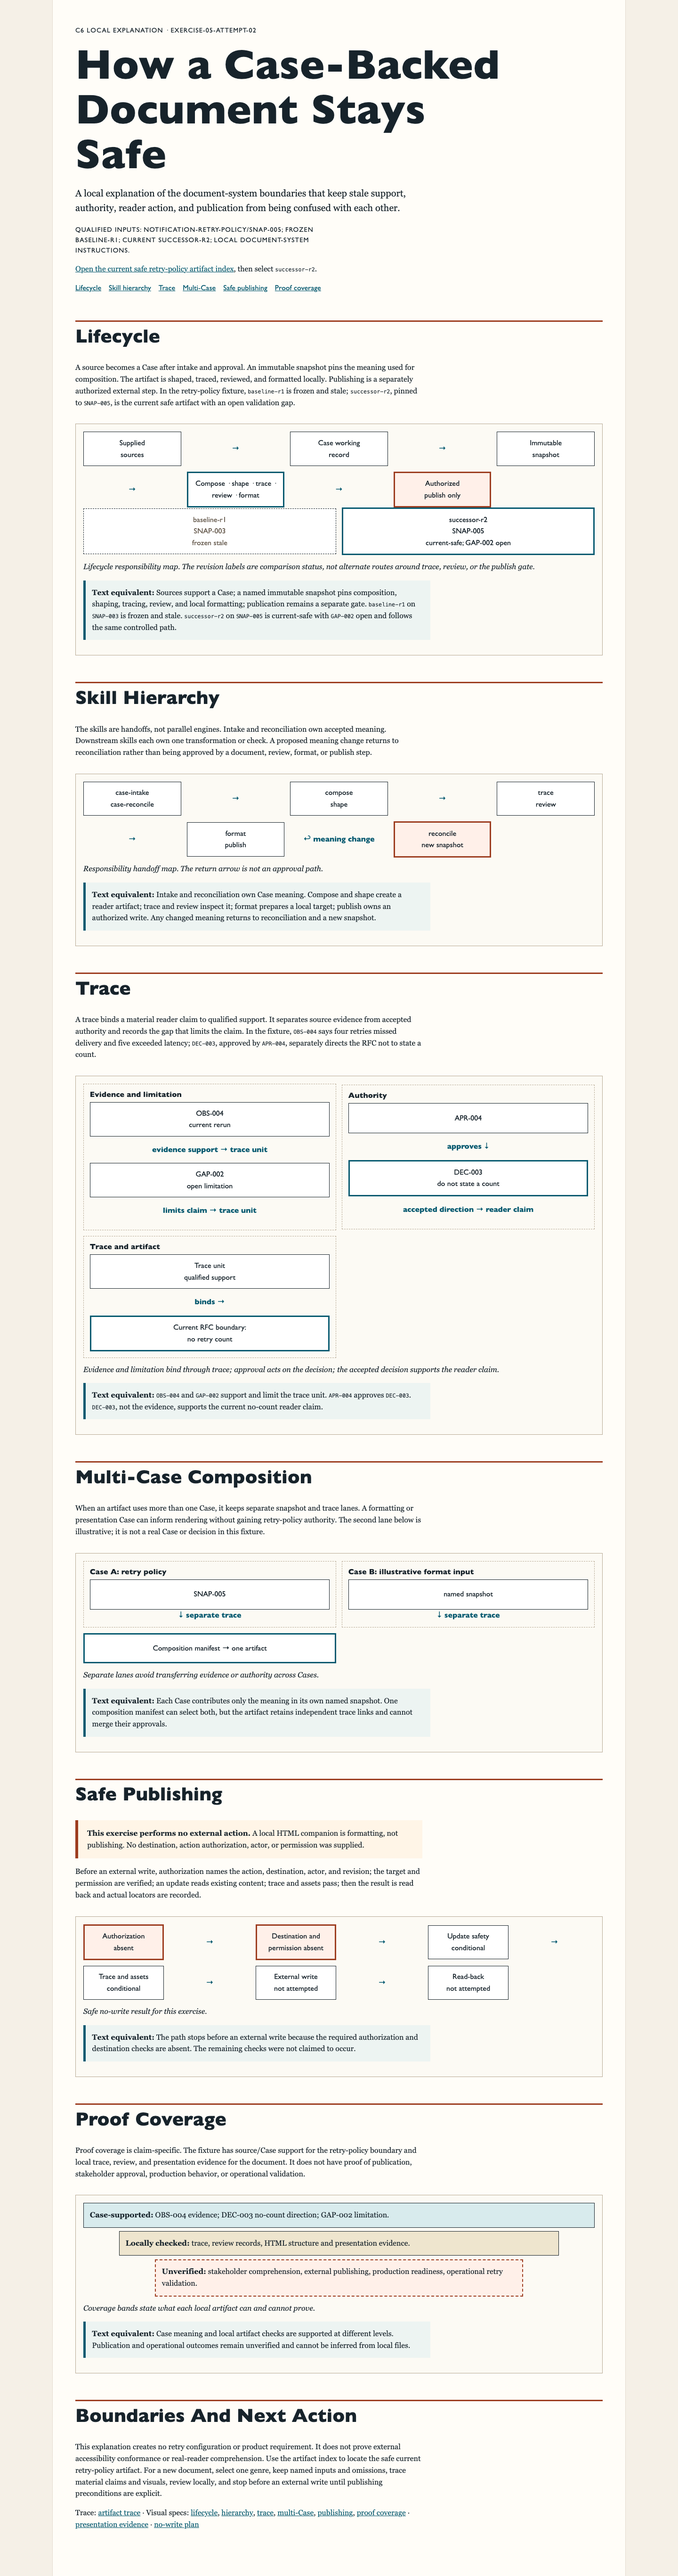
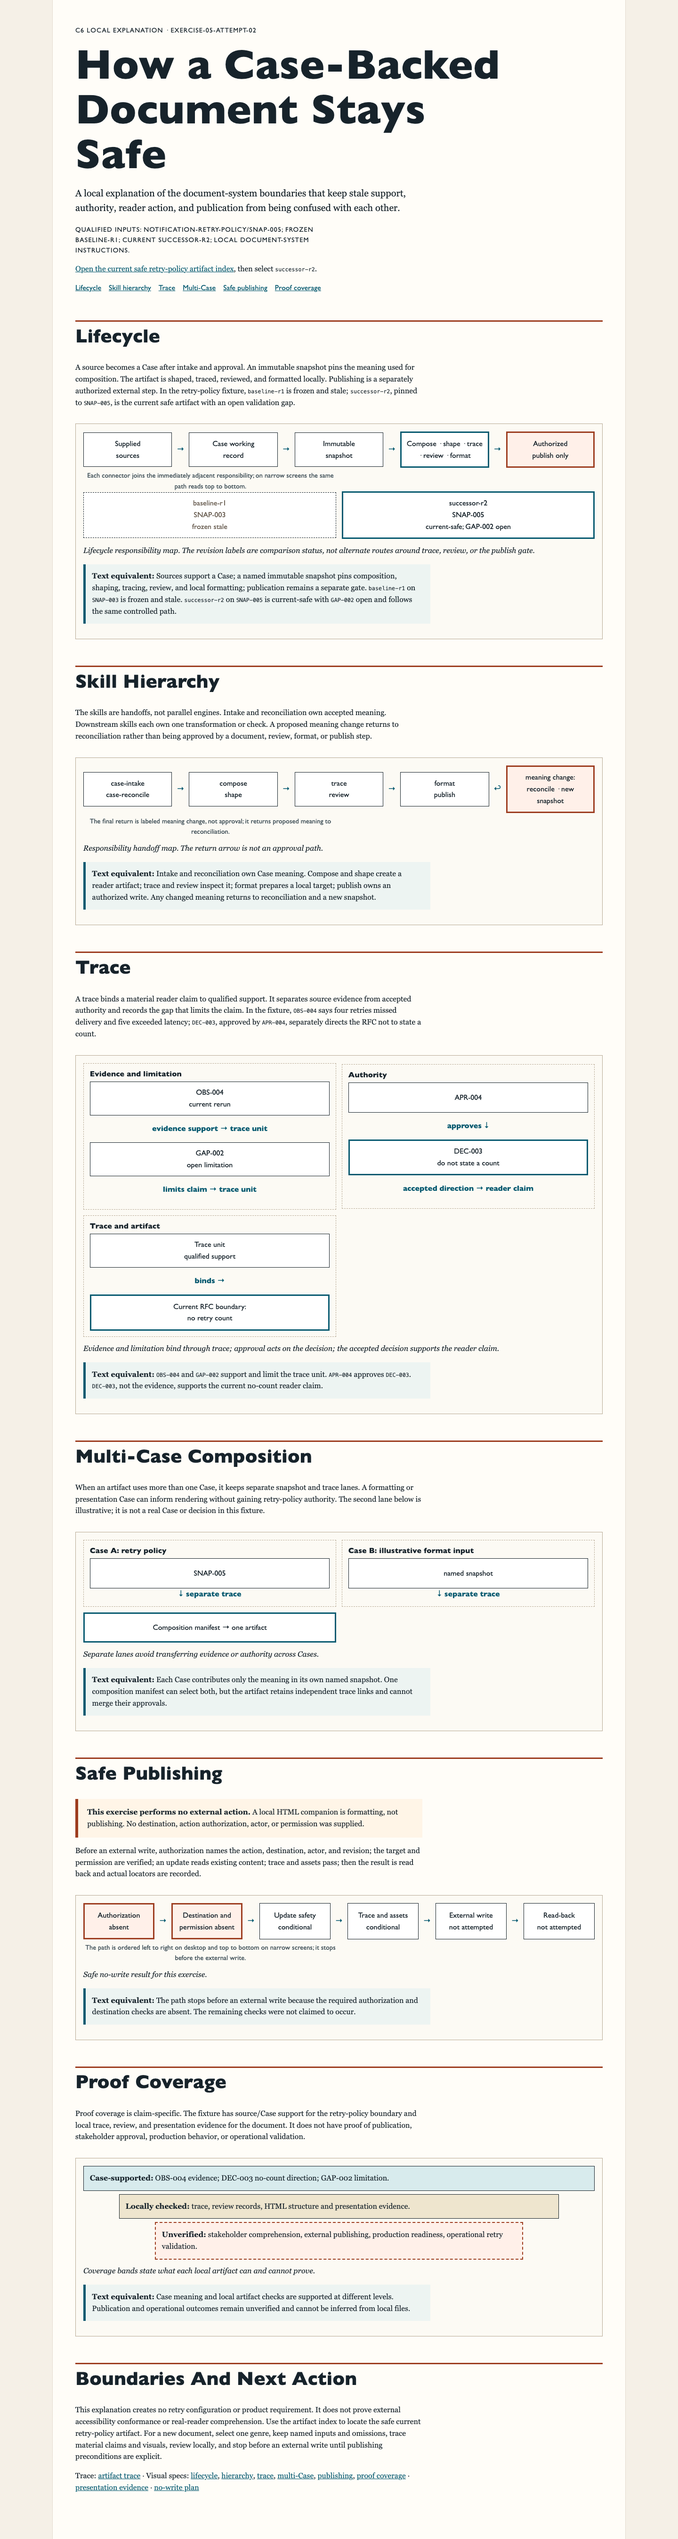
fix(document-system): clarify directional diagrams

diff --git a/src/skills/compose-document/resources/fixtures/exercises/c5-c6-document-system/c6-explanation.html b/src/skills/compose-document/resources/fixtures/exercises/c5-c6-document-system/c6-explanation.html
@@ -7,6 +7,7 @@
   <style>
     :root { color-scheme: light; --ink:#17232b; --paper:#f5f0e7; --wash:#e5ddd0; --blue:#075a70; --rust:#9d3d20; --line:#b8aa95; --soft:#fffdf8; font-family: Georgia, "Times New Roman", serif; line-height:1.55; }
     * { box-sizing:border-box; } body { margin:0; color:var(--ink); background:var(--paper); } main { max-width:76rem; margin:auto; padding:2.5rem 3rem 5rem; background:var(--soft); box-shadow:0 0 0 1px var(--wash); } h1,h2,h3 { font-family: "Gill Sans", "Trebuchet MS", sans-serif; line-height:1.08; letter-spacing:.01em; } h1 { max-width:18ch; margin:.25rem 0 1rem; font-size:clamp(2.7rem,7vw,5.5rem); } h2 { margin-top:3.5rem; padding-top:.55rem; border-top:3px solid var(--rust); font-size:clamp(1.6rem,3vw,2.5rem); } p,li { max-width:75ch; } a { color:var(--blue); } nav ul { display:flex; flex-wrap:wrap; gap:.4rem 1rem; padding:0; list-style:none; font-family:"Gill Sans",sans-serif; } .eyebrow,.meta { font-family:"Gill Sans",sans-serif; font-size:.88rem; letter-spacing:.08em; text-transform:uppercase; } .lead { max-width:60ch; font-size:1.25rem; } .note { padding:1rem 1.2rem; border-left:.4rem solid var(--rust); background:#fff5e7; } table { width:100%; border-collapse:collapse; } th,td { padding:.7rem; vertical-align:top; text-align:left; border:1px solid var(--line); } th { font-family:"Gill Sans",sans-serif; background:var(--wash); } .table-wrap { overflow-x:auto; } figure { margin:2rem 0; padding:1rem; border:1px solid var(--line); background:#fcfaf4; } figcaption { margin-top:.8rem; font-style:italic; } .diagram { display:grid; gap:.75rem; align-items:center; font-family:"Gill Sans",sans-serif; } .flow { grid-template-columns:repeat(5,minmax(7.5rem,1fr)); } .lanes { grid-template-columns:1fr 1fr; } .gate { grid-template-columns:repeat(6,minmax(7rem,1fr)); } .node { min-height:4rem; padding:.65rem; border:1px solid var(--ink); background:#fff; text-align:center; display:grid; place-items:center; } .node.current { border:3px solid var(--blue); } .node.stale { border-style:dashed; color:#6d6256; } .node.blocked { border:3px solid var(--rust); background:#fff0e9; } .arrow { color:var(--blue); font-weight:700; text-align:center; } .lane { padding:.8rem; border:1px dashed var(--line); } .lane h3 { margin:0 0 .5rem; font-size:1rem; } .coverage { display:grid; gap:.45rem; } .band { padding:.8rem; border:1px solid var(--ink); } .case { background:#d8ebed; } .local { margin-left:7%; margin-right:7%; background:#eee5ce; } .unverified { margin-left:14%; margin-right:14%; border:2px dashed var(--rust); background:#fff0e9; } .equivalent { padding:.85rem; background:#edf4f2; border-left:.35rem solid var(--blue); } code { font-size:.9em; } @media (max-width:42rem) { main { padding:1.5rem 1rem 3rem; } .flow,.gate { grid-template-columns:1fr; } .lanes { grid-template-columns:1fr; } .arrow { transform:rotate(90deg); margin:.4rem; } table { min-width:45rem; } }
+    .path { display:flex; align-items:stretch; gap:.45rem; width:100%; font-family:"Gill Sans",sans-serif; } .path-step { flex:1 1 0; min-width:0; display:flex; align-items:center; } .path-step .node { width:100%; } .path-connector { flex:0 0 1.35rem; align-self:center; color:var(--blue); font-weight:700; text-align:center; } .path-gate .path-step { flex-basis:0; } .path-gate .node { min-height:4.8rem; } .path-label { margin:.35rem 0 0; font-family:"Gill Sans",sans-serif; font-size:.9rem; text-align:center; color:#42525a; } @media (max-width:42rem) { .path { flex-direction:column; align-items:stretch; gap:.3rem; } .path-connector { flex:0 0 auto; align-self:center; transform:rotate(90deg); } .path-gate .node { min-height:4rem; } }
   </style>
 </head>
 <body>
@@ -19,10 +20,10 @@
       <nav aria-label="Document sections"><ul><li><a href="#lifecycle">Lifecycle</a></li><li><a href="#skill-hierarchy">Skill hierarchy</a></li><li><a href="#trace">Trace</a></li><li><a href="#multi-case">Multi-Case</a></li><li><a href="#safe-publishing">Safe publishing</a></li><li><a href="#proof-coverage">Proof coverage</a></li></ul></nav>
     </header>
     <section id="lifecycle"><h2>Lifecycle</h2><p>A source becomes a Case after intake and approval. An immutable snapshot pins the meaning used for composition. The artifact is shaped, traced, reviewed, and formatted locally. Publishing is a separately authorized external step. In the retry-policy fixture, <code>baseline-r1</code> is frozen and stale; <code>successor-r2</code>, pinned to <code>SNAP-005</code>, is the current safe artifact with an open validation gap.</p>
-      <figure id="diagram-lifecycle"><div class="diagram flow" role="img" aria-label="Lifecycle shows supplied sources through Case, immutable snapshot, composition, shaped artifact, trace, review, local format, and a separately authorized publish gate. A frozen stale baseline and current-safe successor are comparison labels, not bypasses."><div class="node">Supplied<br>sources</div><div class="arrow">→</div><div class="node">Case working<br>record</div><div class="arrow">→</div><div class="node">Immutable<br>snapshot</div><div class="arrow">→</div><div class="node current">Compose · shape · trace · review · format</div><div class="arrow">→</div><div class="node blocked">Authorized<br>publish only</div></div><div class="diagram lanes"><div class="node stale">baseline-r1<br>SNAP-003<br>frozen stale</div><div class="node current">successor-r2<br>SNAP-005<br>current-safe; GAP-002 open</div></div><figcaption>Lifecycle responsibility map. The revision labels are comparison status, not alternate routes around trace, review, or the publish gate.</figcaption><p class="equivalent"><strong>Text equivalent:</strong> Sources support a Case; a named immutable snapshot pins composition, shaping, tracing, review, and local formatting; publication remains a separate gate. <code>baseline-r1</code> on <code>SNAP-003</code> is frozen and stale. <code>successor-r2</code> on <code>SNAP-005</code> is current-safe with <code>GAP-002</code> open and follows the same controlled path.</p></figure>
+      <figure id="diagram-lifecycle"><div class="path" role="img" aria-label="Lifecycle shows supplied sources through Case, immutable snapshot, composition, shaped artifact, trace, review, local format, and a separately authorized publish gate. A frozen stale baseline and current-safe successor are comparison labels, not bypasses."><div class="path-step"><div class="node">Supplied<br>sources</div></div><div class="path-connector" aria-hidden="true">→</div><div class="path-step"><div class="node">Case working<br>record</div></div><div class="path-connector" aria-hidden="true">→</div><div class="path-step"><div class="node">Immutable<br>snapshot</div></div><div class="path-connector" aria-hidden="true">→</div><div class="path-step"><div class="node current">Compose · shape · trace · review · format</div></div><div class="path-connector" aria-hidden="true">→</div><div class="path-step"><div class="node blocked">Authorized<br>publish only</div></div></div><p class="path-label">Each connector joins the immediately adjacent responsibility; on narrow screens the same path reads top to bottom.</p><div class="diagram lanes"><div class="node stale">baseline-r1<br>SNAP-003<br>frozen stale</div><div class="node current">successor-r2<br>SNAP-005<br>current-safe; GAP-002 open</div></div><figcaption>Lifecycle responsibility map. The revision labels are comparison status, not alternate routes around trace, review, or the publish gate.</figcaption><p class="equivalent"><strong>Text equivalent:</strong> Sources support a Case; a named immutable snapshot pins composition, shaping, tracing, review, and local formatting; publication remains a separate gate. <code>baseline-r1</code> on <code>SNAP-003</code> is frozen and stale. <code>successor-r2</code> on <code>SNAP-005</code> is current-safe with <code>GAP-002</code> open and follows the same controlled path.</p></figure>
     </section>
     <section id="skill-hierarchy"><h2>Skill Hierarchy</h2><p>The skills are handoffs, not parallel engines. Intake and reconciliation own accepted meaning. Downstream skills each own one transformation or check. A proposed meaning change returns to reconciliation rather than being approved by a document, review, format, or publish step.</p>
-      <figure id="diagram-skill-hierarchy"><div class="diagram flow" role="img" aria-label="Skill handoff hierarchy from case intake and reconcile through compose, shape, trace, review, format, and publish, with meaning changes returning to reconcile."><div class="node">case-intake<br>case-reconcile</div><div class="arrow">→</div><div class="node">compose<br>shape</div><div class="arrow">→</div><div class="node">trace<br>review</div><div class="arrow">→</div><div class="node">format<br>publish</div><div class="arrow">↩ meaning change</div><div class="node blocked">reconcile<br>new snapshot</div></div><figcaption>Responsibility handoff map. The return arrow is not an approval path.</figcaption><p class="equivalent"><strong>Text equivalent:</strong> Intake and reconciliation own Case meaning. Compose and shape create a reader artifact; trace and review inspect it; format prepares a local target; publish owns an authorized write. Any changed meaning returns to reconciliation and a new snapshot.</p></figure>
+      <figure id="diagram-skill-hierarchy"><div class="path" role="img" aria-label="Skill handoff hierarchy from case intake and reconcile through compose, shape, trace, review, format, and publish, with meaning changes returning to reconcile."><div class="path-step"><div class="node">case-intake<br>case-reconcile</div></div><div class="path-connector" aria-hidden="true">→</div><div class="path-step"><div class="node">compose<br>shape</div></div><div class="path-connector" aria-hidden="true">→</div><div class="path-step"><div class="node">trace<br>review</div></div><div class="path-connector" aria-hidden="true">→</div><div class="path-step"><div class="node">format<br>publish</div></div><div class="path-connector" aria-hidden="true">↩</div><div class="path-step"><div class="node blocked">meaning change:<br>reconcile · new snapshot</div></div></div><p class="path-label">The final return is labeled meaning change, not approval; it returns proposed meaning to reconciliation.</p><figcaption>Responsibility handoff map. The return arrow is not an approval path.</figcaption><p class="equivalent"><strong>Text equivalent:</strong> Intake and reconciliation own Case meaning. Compose and shape create a reader artifact; trace and review inspect it; format prepares a local target; publish owns an authorized write. Any changed meaning returns to reconciliation and a new snapshot.</p></figure>
     </section>
     <section id="trace"><h2>Trace</h2><p>A trace binds a material reader claim to qualified support. It separates source evidence from accepted authority and records the gap that limits the claim. In the fixture, <code>OBS-004</code> says four retries missed delivery and five exceeded latency; <code>DEC-003</code>, approved by <code>APR-004</code>, separately directs the RFC not to state a count.</p>
       <figure id="diagram-trace"><div class="diagram lanes" role="img" aria-label="Trace relationships show OBS-004 evidence and GAP-002 limitation entering a trace unit; APR-004 approves DEC-003; DEC-003 supports the current no-count reader claim."><div class="lane"><h3>Evidence and limitation</h3><div class="node">OBS-004<br>current rerun</div><p class="arrow">evidence support → trace unit</p><div class="node">GAP-002<br>open limitation</div><p class="arrow">limits claim → trace unit</p></div><div class="lane"><h3>Authority</h3><div class="node">APR-004</div><p class="arrow">approves ↓</p><div class="node current">DEC-003<br>do not state a count</div><p class="arrow">accepted direction → reader claim</p></div><div class="lane"><h3>Trace and artifact</h3><div class="node">Trace unit<br>qualified support</div><p class="arrow">binds →</p><div class="node current">Current RFC boundary:<br>no retry count</div></div></div><figcaption>Evidence and limitation bind through trace; approval acts on the decision; the accepted decision supports the reader claim.</figcaption><p class="equivalent"><strong>Text equivalent:</strong> <code>OBS-004</code> and <code>GAP-002</code> support and limit the trace unit. <code>APR-004</code> approves <code>DEC-003</code>. <code>DEC-003</code>, not the evidence, supports the current no-count reader claim.</p></figure>
@@ -31,7 +32,7 @@
       <figure id="diagram-multi-case"><div class="diagram lanes" role="img" aria-label="Two independent Case snapshot lanes join one artifact through a composition manifest while retaining separate trace links."><div class="lane"><h3>Case A: retry policy</h3><div class="node">SNAP-005</div><div class="arrow">↓ separate trace</div></div><div class="lane"><h3>Case B: illustrative format input</h3><div class="node">named snapshot</div><div class="arrow">↓ separate trace</div></div><div class="node current">Composition manifest → one artifact</div></div><figcaption>Separate lanes avoid transferring evidence or authority across Cases.</figcaption><p class="equivalent"><strong>Text equivalent:</strong> Each Case contributes only the meaning in its own named snapshot. One composition manifest can select both, but the artifact retains independent trace links and cannot merge their approvals.</p></figure>
     </section>
     <section id="safe-publishing"><h2>Safe Publishing</h2><p class="note"><strong>This exercise performs no external action.</strong> A local HTML companion is formatting, not publishing. No destination, action authorization, actor, or permission was supplied.</p><p>Before an external write, authorization names the action, destination, actor, and revision; the target and permission are verified; an update reads existing content; trace and assets pass; then the result is read back and actual locators are recorded.</p>
-      <figure id="diagram-safe-publishing"><div class="diagram gate" role="img" aria-label="Publication checks show this exercise blocked before external write because authorization and destination are absent."><div class="node blocked">Authorization<br>absent</div><div class="arrow">→</div><div class="node blocked">Destination and<br>permission absent</div><div class="arrow">→</div><div class="node">Update safety<br>conditional</div><div class="arrow">→</div><div class="node">Trace and assets<br>conditional</div><div class="arrow">→</div><div class="node">External write<br>not attempted</div><div class="arrow">→</div><div class="node">Read-back<br>not attempted</div></div><figcaption>Safe no-write result for this exercise.</figcaption><p class="equivalent"><strong>Text equivalent:</strong> The path stops before an external write because the required authorization and destination checks are absent. The remaining checks were not claimed to occur.</p></figure>
+      <figure id="diagram-safe-publishing"><div class="path path-gate" role="img" aria-label="Publication checks show this exercise blocked before external write because authorization and destination are absent."><div class="path-step"><div class="node blocked">Authorization<br>absent</div></div><div class="path-connector" aria-hidden="true">→</div><div class="path-step"><div class="node blocked">Destination and<br>permission absent</div></div><div class="path-connector" aria-hidden="true">→</div><div class="path-step"><div class="node">Update safety<br>conditional</div></div><div class="path-connector" aria-hidden="true">→</div><div class="path-step"><div class="node">Trace and assets<br>conditional</div></div><div class="path-connector" aria-hidden="true">→</div><div class="path-step"><div class="node">External write<br>not attempted</div></div><div class="path-connector" aria-hidden="true">→</div><div class="path-step"><div class="node">Read-back<br>not attempted</div></div></div><p class="path-label">The path is ordered left to right on desktop and top to bottom on narrow screens; it stops before the external write.</p><figcaption>Safe no-write result for this exercise.</figcaption><p class="equivalent"><strong>Text equivalent:</strong> The path stops before an external write because the required authorization and destination checks are absent. The remaining checks were not claimed to occur.</p></figure>
     </section>
     <section id="proof-coverage"><h2>Proof Coverage</h2><p>Proof coverage is claim-specific. The fixture has source/Case support for the retry-policy boundary and local trace, review, and presentation evidence for the document. It does not have proof of publication, stakeholder approval, production behavior, or operational validation.</p>
       <figure id="diagram-proof-coverage"><div class="coverage" role="img" aria-label="Nested proof coverage bands show supported Case meaning, local artifact checks, and unverified publication or operational outcomes."><div class="band case"><strong>Case-supported:</strong> OBS-004 evidence; DEC-003 no-count direction; GAP-002 limitation.</div><div class="band local"><strong>Locally checked:</strong> trace, review records, HTML structure and presentation evidence.</div><div class="band unverified"><strong>Unverified:</strong> stakeholder comprehension, external publishing, production readiness, operational retry validation.</div></div><figcaption>Coverage bands state what each local artifact can and cannot prove.</figcaption><p class="equivalent"><strong>Text equivalent:</strong> Case meaning and local artifact checks are supported at different levels. Publication and operational outcomes remain unverified and cannot be inferred from local files.</p></figure>

diff --git a/src/skills/compose-document/resources/fixtures/exercises/c5-c6-document-system/presentation-evidence.md b/src/skills/compose-document/resources/fixtures/exercises/c5-c6-document-system/presentation-evidence.md
@@ -42,6 +42,15 @@
 - **Narrow command:** `agent-browser --session ds05 set viewport 390 844`; `agent-browser --session ds05 screenshot --full rendered/c6-full-narrow-390x844.png`; `agent-browser --session ds05 eval <figure/equivalent/id/flow-column coverage check>`; `agent-browser --session ds05 errors`.
[1 lines of base64/hex data omitted]
 
+## Directional-Path Closure
+
+- **Capture date:** `2026-07-15T08:48:20Z`.
[1 lines of base64/hex data omitted]
+- **Desktop command:** open the file URL; set viewport `1440 1000`; evaluate each `.path` for width, scroll width, flex direction, connector count, and step count; capture `--full`; inspect browser errors.
[1 lines of base64/hex data omitted]
+- **Narrow command:** set viewport `390 844`; evaluate the same path structure; capture `--full`; inspect browser errors.
[1 lines of base64/hex data omitted]
+
 ## Accessibility And Reader Preservation
 
 - Informative diagrams have role and alt text. Captions and adjacent text equivalents carry the reader-relevant meaning even if CSS diagrams do not render.

diff --git a/src/skills/compose-document/resources/fixtures/exercises/c5-c6-document-system/artifact-provenance.md b/src/skills/compose-document/resources/fixtures/exercises/c5-c6-document-system/artifact-provenance.md
@@ -45,6 +45,17 @@ The C2, C3, and C5 fidelity/genre records and the C6 staged review were created 
[2 lines of base64/hex data omitted]
 
+## Directional Layout Revision
+
[1 lines of base64/hex data omitted]
+
+| Screenshot | SHA-256 |
+|---|---|
[2 lines of base64/hex data omitted]
+
+`presentation-evidence.md#directional-path-closure` records the exact desktop and narrow path-step/connector results. The old full-page digests remain historical evidence for the pre-layout-closure representation.
+
 The full-page captures were taken on `2026-07-15T08:44:12Z` from the same HTML digest and browser/file URL above. They visibly cover all six diagrams and their adjacent text equivalents at desktop and narrow viewports; `presentation-evidence.md#full-page-closure` records the command sequences and measured results.
 
 ## Finding Coverage

diff --git a/src/skills/compose-document/resources/fixtures/exercises/c5-c6-document-system/visual-specs/lifecycle.md b/src/skills/compose-document/resources/fixtures/exercises/c5-c6-document-system/visual-specs/lifecycle.md
@@ -7,4 +7,4 @@
 - **Elements:** source, Case, snapshot, composition, shape, trace, review, local format, publish gate; a visible `baseline-r1 / SNAP-003 / frozen stale` label; a visible `successor-r2 / SNAP-005 / current-safe with GAP-002` label; caption and text equivalent.
 - **Trace:** `#diagram-lifecycle`, `AU-501`, `AU-502`.
 - **Accessibility:** alt: “Workflow lanes show Case-backed document stages, a frozen stale baseline, and a current successor that stops at a publication gate.” Text equivalent names the same path and status.
-- **Validation:** compare node labels and status to trace; inspect desktop and narrow layout; verify no arrow bypasses the publication gate.
+- **Validation:** compare node labels and status to trace; inspect desktop and narrow layout; verify each grouped connector joins only its immediately adjacent lifecycle nodes and no connector bypasses the publication gate.

diff --git a/src/skills/compose-document/resources/fixtures/exercises/c5-c6-document-system/visual-specs/skill-hierarchy.md b/src/skills/compose-document/resources/fixtures/exercises/c5-c6-document-system/visual-specs/skill-hierarchy.md
@@ -7,4 +7,4 @@
 - **Elements:** eight named skill nodes, handoff arrows, one return arrow to reconcile, caption, and text equivalent.
 - **Trace:** `#diagram-skill-hierarchy`, `AU-503`.
 - **Accessibility:** alt: “A handoff chain assigns one responsibility to each document skill and returns proposed meaning changes to reconciliation.”
-- **Validation:** verify every label against the cited skill contract; ensure the return arrow is labeled “meaning change,” not “approval.”
+- **Validation:** verify every label against the cited skill contract; ensure each grouped connector joins adjacent handoff steps and the final return is labeled “meaning change,” not “approval.”

diff --git a/src/skills/compose-document/resources/fixtures/exercises/c5-c6-document-system/visual-specs/safe-publishing.md b/src/skills/compose-document/resources/fixtures/exercises/c5-c6-document-system/visual-specs/safe-publishing.md
@@ -7,4 +7,4 @@
 - **Elements:** six gate labels, blocked-before-write marker, no-write result, caption, and text equivalent.
 - **Trace:** `#diagram-safe-publishing`, `AU-506`.
 - **Accessibility:** alt: “A publication path is blocked before the external write because authorization and destination checks are absent.”
-- **Validation:** the blocked marker precedes write; all unperformed checks are visibly conditional; inspect desktop and narrow rendering.
+- **Validation:** the blocked marker precedes write; grouped connectors join only adjacent gates in the declared order; all unperformed checks are visibly conditional; inspect desktop and narrow rendering.
